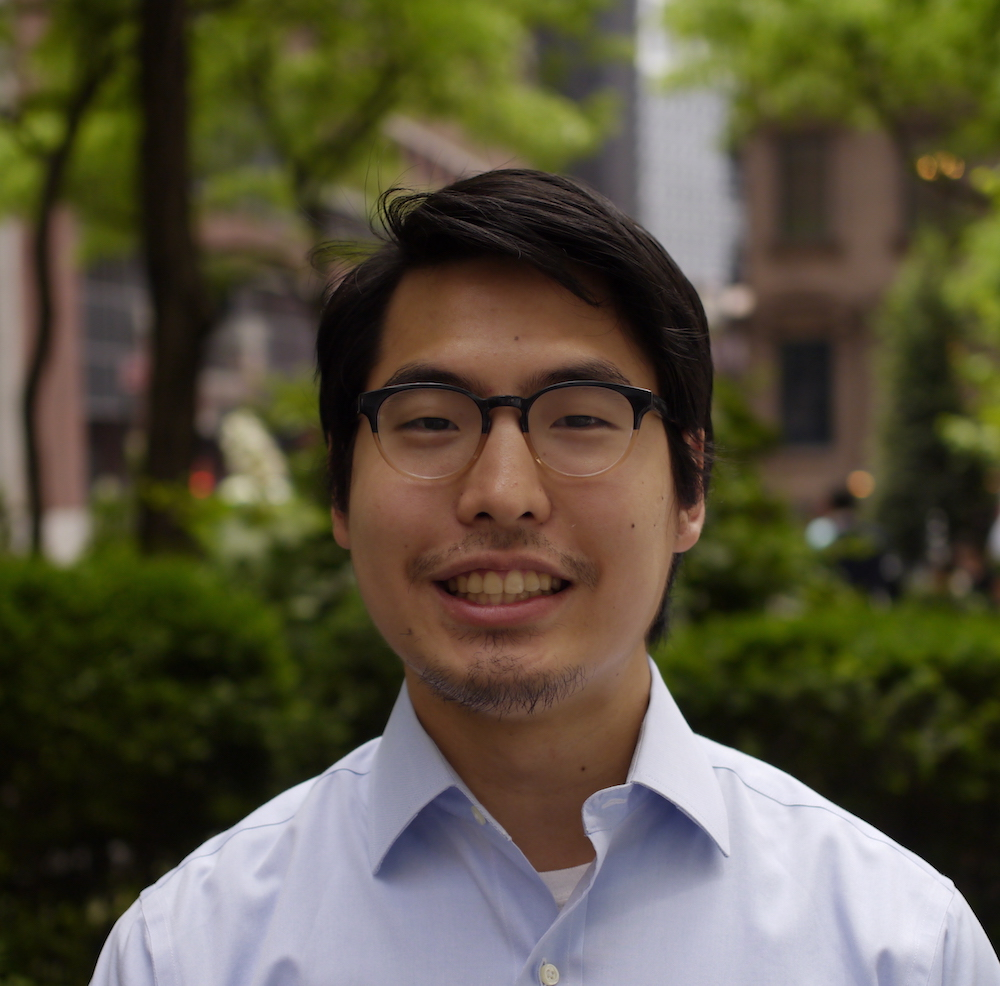
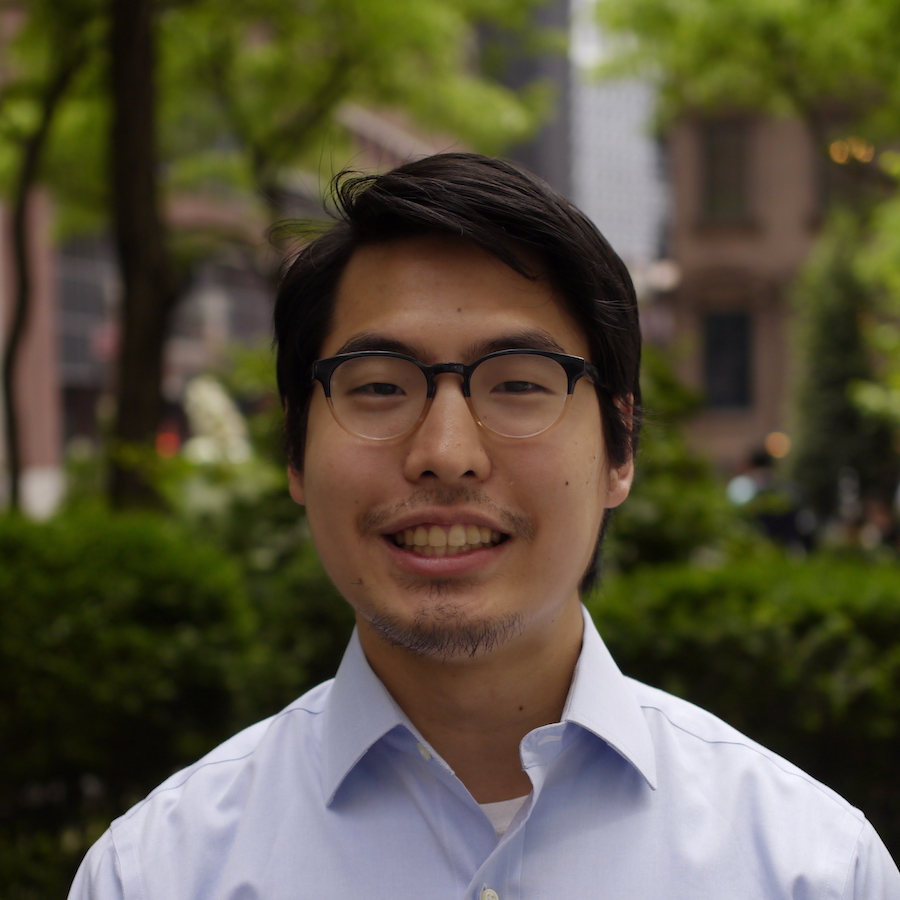
v1

diff --git a/public/index.html b/public/index.html
@@ -5,22 +5,9 @@
   <meta charset="utf-8">
   <meta name="viewport" content="width=device-width, initial-scale=1, shrink-to-fit=no">
   <meta name="theme-color" content="#000000">
-  <!--
-      manifest.json provides metadata used when your web app is added to the
-      homescreen on Android. See https://developers.google.com/web/fundamentals/engage-and-retain/web-app-manifest/
-    -->
   <link rel="stylesheet" href="//cdn.jsdelivr.net/npm/semantic-ui@2.4.1/dist/semantic.min.css" />
   <link rel="manifest" href="%PUBLIC_URL%/manifest.json">
   <link rel="shortcut icon" href="%PUBLIC_URL%/favicon.ico">
-  <!--
-      Notice the use of %PUBLIC_URL% in the tags above.
-      It will be replaced with the URL of the `public` folder during the build.
-      Only files inside the `public` folder can be referenced from the HTML.
-
-      Unlike "/favicon.ico" or "favicon.ico", "%PUBLIC_URL%/favicon.ico" will
-      work correctly both with client-side routing and a non-root public URL.
-      Learn how to configure a non-root public URL by running `npm run build`.
-    -->
   <title>Sean Lee</title>
 </head>
 
@@ -29,16 +16,6 @@
     You need to enable JavaScript to run this app.
   </noscript>
   <div id="root"></div>
-  <!--
-      This HTML file is a template.
-      If you open it directly in the browser, you will see an empty page.
-
-      You can add webfonts, meta tags, or analytics to this file.
-      The build step will place the bundled scripts into the <body> tag.
-
-      To begin the development, run `npm start` or `yarn start`.
-      To create a production bundle, use `npm run build` or `yarn build`.
-    -->
 </body>
 
 </html>

diff --git a/src/Contact.js b/src/Contact.js
@@ -1,17 +1,13 @@
 import React, { Component } from 'react'
 import Footer from './Footer.js'
-import Graphic0 from './contact-graphic0.png'
 import Graphic from './contact-graphic.png'
-import { Dropdown, Menu, Container, Icon, Button, Form, Grid, Header, Image, Message, Segment, Transition } from 'semantic-ui-react'
+import { Container, Icon, Grid, Header, Image } from 'semantic-ui-react'
 
 const Contact = () => (
   <div className='contact'>
-    <Container style={{ padding: '8em 0em 8em' }}>
+    <Container style={{ paddingTop: '10em', paddingBottom: '8em', paddingLeft: '10em'}}>
       <Grid verticalAlign='middle'>
         <Grid.Row columns='equal'>
-          <Grid.Column>
-            <Image centered size='mini' src={Graphic0}/>
-          </Grid.Column>
           <Grid.Column>
             <Header as='h2'>
               <Icon name='mail' />

diff --git a/src/About.js b/src/About.js
@@ -1,12 +1,12 @@
 import React, { Component } from 'react'
 import avatar from './avatar.jpeg'
 import Footer from './Footer.js'
-import { Dropdown, Menu, Container, List, Button, Form, Grid, Header, Image, Message, Segment, Transition } from 'semantic-ui-react'
+import { Container, List, Image } from 'semantic-ui-react'
 
 const About = () => (
   <div className='about'>
-    <Container style={{ padding: '6em 24em 2em' }}>
-      <Image src={avatar} size='medium' circular centered style={{ padding: '0em 0em 2em' }}/>
+    <Container style={{ padding: '4em 28em 2em' }}>
+      <Image src={avatar} size='large' circular centered style={{ padding: '0em 0em 2em' }}/>
       <List>
         <List.Item>
           <List.Icon name='user' />

diff --git a/src/App.js b/src/App.js
@@ -1,4 +1,4 @@
-import React, { Component, Fragment } from 'react'
+import React, { Component } from 'react'
 import Splash from './logo1.png'
 import Logo from './logo.png'
 import './App.css'
@@ -6,7 +6,7 @@ import Home from './Home.js'
 import About from './About.js'
 import Projects from './Projects.js'
 import Contact from './Contact.js'
-import { Dropdown, Menu, Button, Form, Grid, Header, Image, Message, Segment, Transition, Input, Container } from 'semantic-ui-react'
+import { Menu, Grid, Image, Transition, Container } from 'semantic-ui-react'
 
 const pages = { 'home': <Home/>, 'about me': <About/>, 'projects': <Projects/>, 'contact': <Contact/> }
 

diff --git a/src/Projects.js b/src/Projects.js
@@ -4,7 +4,7 @@ import splitsease from './splits-ease.png'
 import ecommerce from './ecommerce.png'
 import portfolio from './logo1.png'
 import Footer from './Footer.js'
-import { Dropdown, Menu, Embed, Modal, Icon, Container, Button, Form, Grid, Header, Image, Message, Segment, Transition } from 'semantic-ui-react'
+import { Container, Grid, Image } from 'semantic-ui-react'
 
 const Projects = () => (
   <div className='projects'>

diff --git a/src/Home.js b/src/Home.js
@@ -2,7 +2,7 @@ import React, { Component } from 'react'
 import Graphic from './home-graphic.png'
 import './App.css'
 import Footer from './Footer.js'
-import { Dropdown, Menu, Container, Button, Form, Grid, Header, Image, Message, Segment, Transition } from 'semantic-ui-react'
+import { Container, Grid, Header, Image } from 'semantic-ui-react'
 
 const Home = () => (
   <div className='home'>

diff --git a/src/App.css b/src/App.css
@@ -1,10 +1,4 @@
 .main {
-  /* background-image: url('bg.png');
-  background-repeat: no-repeat;
-  background-attachment: scroll;
-  background-position: center top; */
-  /* background-size: cover; */
-  /* background-color: whitesmoke; */
   -webkit-animation: fadein 2s; /* Safari and Chrome */
   -moz-animation: fadein 2s; /* Firefox */
   -ms-animation: fadein 2s; /* Internet Explorer */

diff --git a/src/Footer.js b/src/Footer.js
@@ -1,6 +1,5 @@
 import React, { Component } from 'react'
-import logo from './logo1.png'
-import { Dropdown, Menu, Icon, Container, Divider, List, Form, Grid, Header, Image, Message, Segment, Transition } from 'semantic-ui-react'
+import { Icon, Container, Divider, List, Segment } from 'semantic-ui-react'
 
 const Footer = () => (
   <Segment vertical style={{ marginBottom: '1em'}}>

diff --git a/README.md b/README.md
@@ -1,6 +1,8 @@
 # Sean's Personal Website
 
-v1
+v1 ~ Dec 2018
+
+Built using Semantic UI React
 
 This project was bootstrapped with [Create React App](https://github.com/facebookincubator/create-react-app).
 
